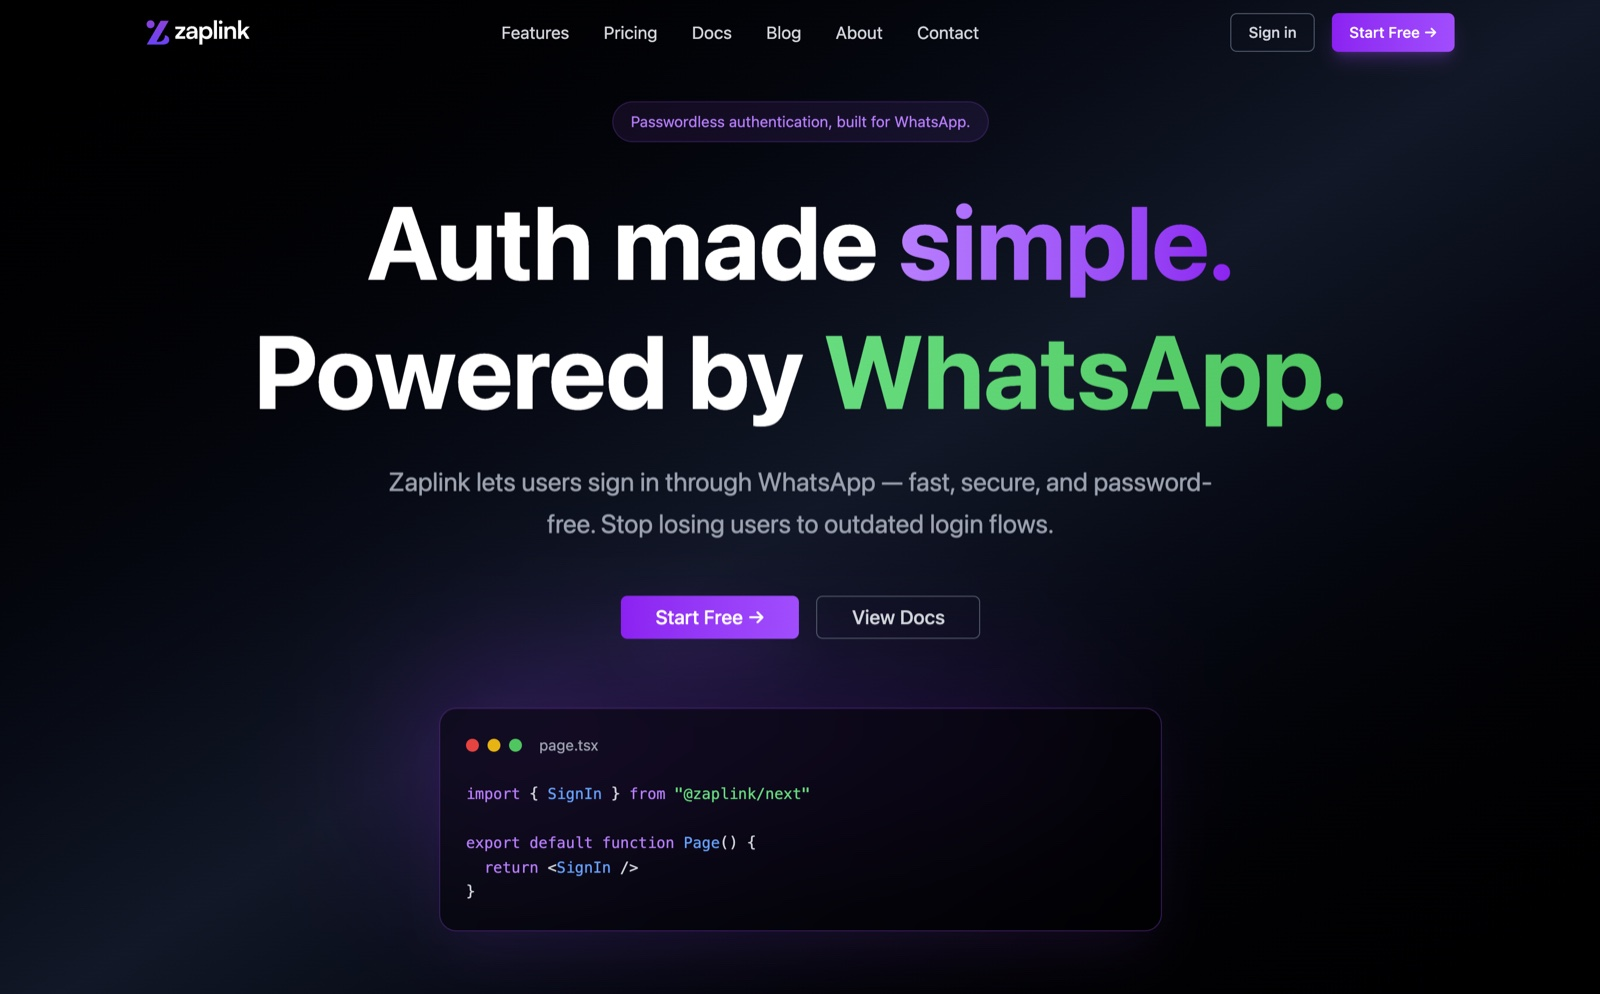
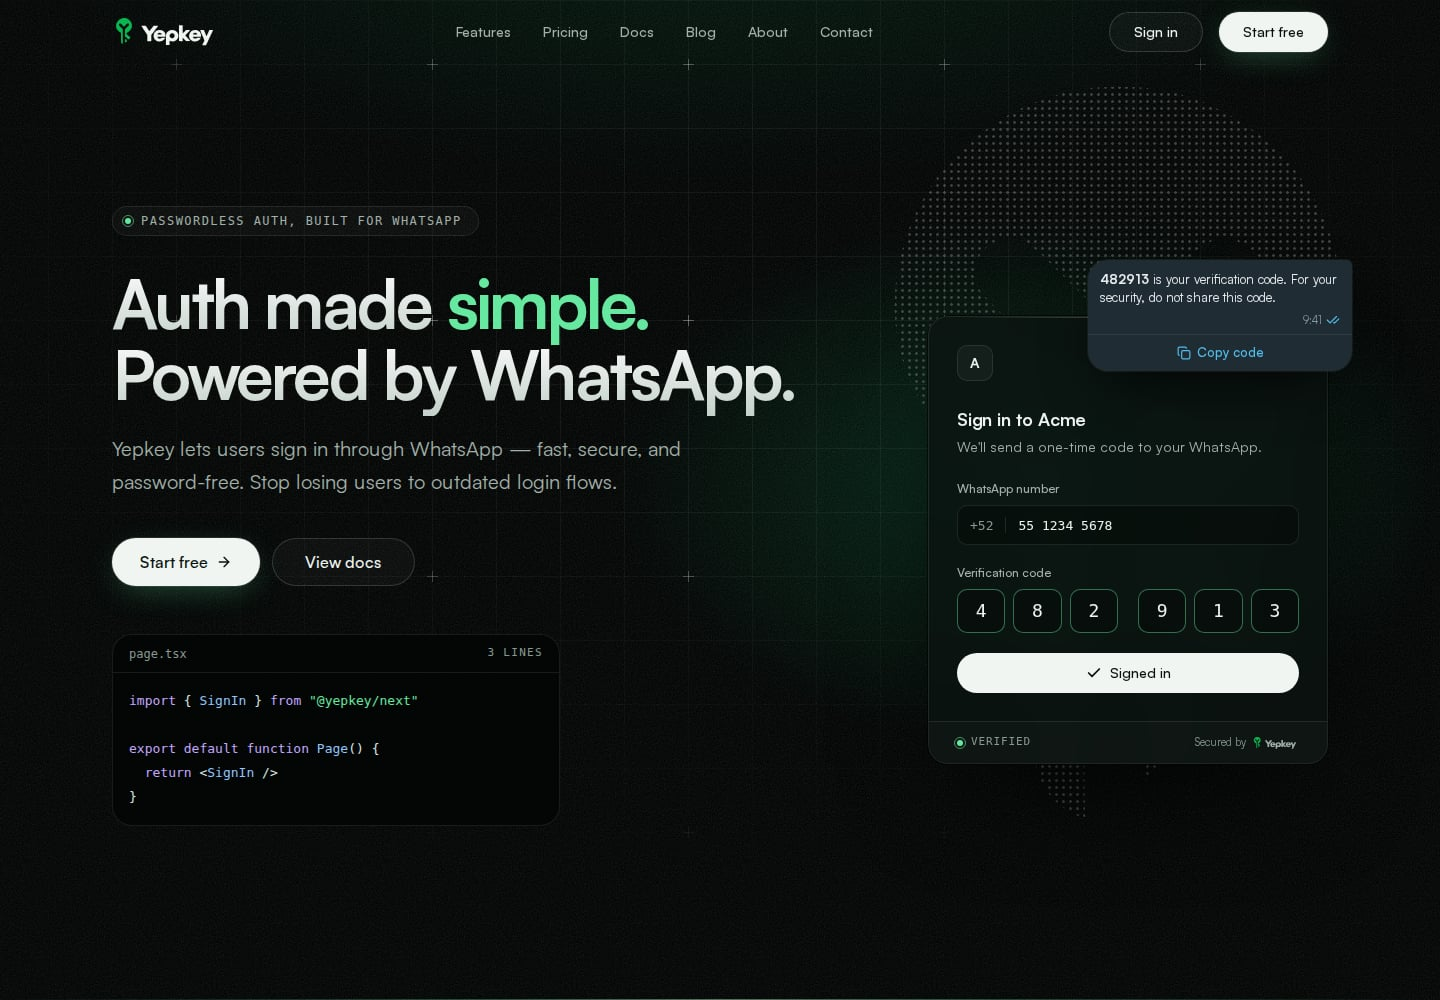
feat: replace Zaplink portfolio with Yepkey

diff --git a/src/data/projects.ts b/src/data/projects.ts
@@ -246,70 +246,63 @@ export const projects: Project[] = [
     related: ['estateflow'],
   },
   {
-    id: 'zaplink',
-    title: { en: 'Zaplink', es: 'Zaplink' },
+    id: 'yepkey',
+    title: { en: 'Yepkey.io', es: 'Yepkey.io' },
     category: { en: 'Product', es: 'Producto' },
     cardDescription: {
-      en: 'Authentication through WhatsApp using one-time codes and magic links.',
-      es: 'Autenticación mediante WhatsApp con códigos de un solo uso y enlaces de acceso.',
+      en: 'Passwordless authentication through WhatsApp using one-time codes.',
+      es: 'Autenticación sin contraseña mediante WhatsApp con códigos de un solo uso.',
     },
     body: {
-      en: 'I built Zaplink to let products use WhatsApp for authentication. It supports one-time codes and magic links, with React and Node integration packages.',
-      es: 'Desarrollé Zaplink para que los productos puedan utilizar WhatsApp en la autenticación de usuarios. Permite usar códigos de un solo uso y enlaces de acceso, con paquetes de integración para React y Node.',
+      en: 'I built Yepkey, a product for adding WhatsApp authentication to applications. Its public site presents a sign-in flow using a one-time code.',
+      es: 'Desarrollé Yepkey, un producto para incorporar autenticación por WhatsApp a una aplicación. Su sitio público presenta un flujo de acceso con un código de un solo uso.',
     },
-    url: 'https://zaplink.so',
-    urlLabel: { en: 'Explore Zaplink', es: 'Conoce Zaplink' },
+    url: 'https://yepkey.io/',
+    urlLabel: { en: 'Visit Yepkey.io', es: 'Conoce Yepkey.io' },
     featured: true,
     draft: false,
     intro: [
       {
-        en: 'Zaplink lets a product authenticate people over WhatsApp instead of email. The user gets a one-time code or a link in the app they already have open, and signs in from there.',
-        es: 'Zaplink permite que un producto autentique a las personas por WhatsApp en lugar de correo. El usuario recibe un código de un solo uso o un enlace en la app que ya tiene abierta, y entra desde ahí.',
+        en: 'Yepkey is a product I built for authentication through WhatsApp. A person receives a one-time code in WhatsApp and uses it to sign in to an application without a password.',
+        es: 'Yepkey es un producto que desarrollé para autenticar usuarios mediante WhatsApp. La persona recibe un código de un solo uso en WhatsApp y lo utiliza para entrar a una aplicación sin contraseña.',
       },
       {
-        en: 'In much of Latin America that is the difference between a login that works and one that quietly fails: the inbox is an afterthought, but WhatsApp is where people actually are.',
-        es: 'En buena parte de Latinoamérica esa es la diferencia entre un inicio de sesión que funciona y uno que falla en silencio: el correo es secundario, pero WhatsApp es donde la gente realmente está.',
+        en: 'These screenshots show the current public Yepkey.io website, including its illustrative sign-in example for the fictional Acme application.',
+        es: 'Estas capturas muestran el sitio público actual de Yepkey.io, incluido su ejemplo ilustrativo de acceso para la aplicación ficticia Acme.',
       },
     ],
     hero: {
-      file: 'zaplink/hero.jpg',
-      alt: { en: 'Zaplink sign-in over WhatsApp', es: 'Inicio de sesión por WhatsApp con Zaplink' },
+      file: 'yepkey/hero.webp',
+      alt: { en: 'Yepkey.io desktop homepage with its WhatsApp sign-in illustration and Next.js code example', es: 'Página de inicio de Yepkey.io en escritorio, con una ilustración de acceso por WhatsApp y un ejemplo de código de Next.js' },
+      caption: { en: 'Public Yepkey.io homepage, captured on 5 November 2026 at 1440 × 1000. The Acme sign-in is an illustration on the site.', es: 'Inicio público de Yepkey.io, capturado el 5 de noviembre de 2026 a 1440 × 1000. El acceso de Acme es una ilustración del sitio.' },
     },
     sections: [
       {
-        title: { en: 'Signing in over WhatsApp', es: 'Iniciar sesión por WhatsApp' },
+        title: { en: 'The sign-in example', es: 'El ejemplo de acceso' },
         body: [
           {
-            en: 'The platform issues one-time codes and magic links, verifies them, and can act as a second factor for products that already have a password. Rate limiting and abuse protection are part of the service rather than something each integrator has to remember.',
-            es: 'La plataforma emite códigos de un solo uso y enlaces de acceso, los verifica y puede funcionar como segundo factor para productos que ya usan contraseña. El control de frecuencia y la protección contra abuso son parte del servicio, no algo que cada integrador tenga que recordar.',
-          },
-          {
-            en: 'Provider callbacks arrive on their own endpoint and the slow work — delivery, retries — runs on a queue, so an authentication request does not wait on a messaging provider to answer.',
-            es: 'Las respuestas del proveedor llegan a su propio endpoint y el trabajo lento —entrega, reintentos— corre en una cola, para que una solicitud de autenticación no se quede esperando a que conteste el proveedor de mensajería.',
-          },
-        ],
-      },
-      {
-        title: { en: 'Packages for the framework you already use', es: 'Paquetes para el framework que ya usas' },
-        body: [
-          {
-            en: 'The point of Zaplink is that adding it should be small. There are packages for Node and the browser, a React client, a React Native client, and a Next.js integration, all built on a shared core, plus example applications that show each one wired up end to end.',
-            es: 'El objetivo de Zaplink es que integrarlo sea poco trabajo. Hay paquetes para Node y el navegador, un cliente de React, uno de React Native y una integración para Next.js, todos sobre un núcleo común, además de aplicaciones de ejemplo que muestran cada uno funcionando de principio a fin.',
-          },
-        ],
-      },
-      {
-        title: { en: 'The console', es: 'La consola' },
-        body: [
-          {
-            en: 'Behind the API there is a console for the people running it: applications and their credentials, the users who have signed in, and an audit trail of what happened.',
-            es: 'Detrás de la API hay una consola para quien la opera: las aplicaciones y sus credenciales, los usuarios que han entrado y una bitácora de lo que ocurrió.',
+            en: 'The public homepage illustrates the flow with a fictional Acme application: a WhatsApp message contains the code shown in the sign-in form. The mobile view keeps the explanation, actions and example in a single column.',
+            es: 'La página pública ilustra el flujo con una aplicación ficticia llamada Acme: un mensaje de WhatsApp contiene el código que aparece en el formulario de acceso. La vista móvil organiza la explicación, las acciones y el ejemplo en una sola columna.',
           },
         ],
         image: {
-          file: 'zaplink/console.png',
-          alt: { en: 'Zaplink console', es: 'Consola de Zaplink' },
+          file: 'yepkey/mobile.webp',
+          alt: { en: 'Yepkey.io mobile homepage with the fictional Acme WhatsApp code example below the product introduction', es: 'Inicio de Yepkey.io en móvil, con el ejemplo ficticio de código de WhatsApp de Acme debajo de la presentación del producto' },
+          caption: { en: 'Public homepage captured at 390 × 844 on 5 November 2026; the image includes the full hero section. The phone number and code belong to the site’s fictional example.', es: 'Inicio público capturado a 390 × 844 el 5 de noviembre de 2026; la imagen incluye la sección principal completa. El teléfono y el código pertenecen al ejemplo ficticio del sitio.' },
         },
+      },
+      {
+        title: { en: 'Implementation and integration', es: 'Implementación e integración' },
+        body: [
+          {
+            en: 'In the implementation I built, the public authentication API, administration API, provider callbacks and background workers are separate applications. The backend uses NestJS, Prisma and PostgreSQL, with Redis and BullMQ for background work and a React console.',
+            es: 'En la implementación que desarrollé, la API pública de autenticación, la API de administración, las respuestas del proveedor y los procesos en segundo plano son aplicaciones separadas. El backend utiliza NestJS, Prisma y PostgreSQL, con Redis y BullMQ para el trabajo en segundo plano y una consola en React.',
+          },
+          {
+            en: 'The current public website includes a Next.js integration example and links to documentation and the console.',
+            es: 'El sitio público actual incluye un ejemplo de integración para Next.js y enlaces a la documentación y a la consola.',
+          },
+        ],
       },
     ],
     stack: ['NestJS', 'Prisma', 'PostgreSQL', 'Redis', 'BullMQ', 'React', 'Vite', 'Nx'],
@@ -530,7 +523,7 @@ export function getProject(id: string): Project {
   return project;
 }
 
-/** Detail-page path for a project, e.g. `/en/projects/zaplink`. */
+/** Detail-page path for a project, e.g. `/en/projects/yepkey`. */
 export function projectHref(projectsRoute: string, id: string): string {
   return `${projectsRoute}/${id}`;
 }

diff --git a/tests/browser/yepkey.spec.ts b/tests/browser/yepkey.spec.ts
@@ -1,0 +1,60 @@
+import { test, expect } from '@playwright/test';
+
+for (const [locale, prefix, otherPrefix] of [['es', '/es/proyectos', '/en/projects'], ['en', '/en/projects', '/es/proyectos']]) {
+  test(`${locale}: Yepkey screenshots, responsive project and legacy redirects`, async ({ page }) => {
+    const errors: string[] = [];
+    page.on('pageerror', error => errors.push(error.message));
+    for (const width of [320, 390, 768, 1440]) {
+      await page.setViewportSize({ width, height: 900 });
+      const response = await page.goto(`${prefix}/yepkey/`);
+      expect(response?.status()).toBe(200);
+      await expect(page.locator('body > main h1').first()).toHaveText('Yepkey.io');
+      await expect(page.locator('a[href="https://yepkey.io/"]')).toBeVisible();
+      await expect(page.locator('link[rel="canonical"]')).toHaveAttribute('href', `https://hecsanchez.com${prefix}/yepkey/`);
+      await expect(page.locator('link[hreflang="' + (locale === 'es' ? 'en' : 'es') + '"]')).toHaveAttribute('href', `https://hecsanchez.com${otherPrefix}/yepkey/`);
+      await expect(page.locator('meta[property="og:image"]')).toHaveAttribute('content', 'https://hecsanchez.com/projects/yepkey/hero.webp');
+      const screenshots = page.locator('main img[src^="/projects/yepkey/"]');
+      await expect(screenshots).toHaveCount(2);
+      for (const image of await screenshots.all()) {
+        await image.scrollIntoViewIfNeeded();
+        await expect(image).toHaveJSProperty('complete', true);
+        expect(await image.evaluate((img: HTMLImageElement) => img.naturalWidth)).toBeGreaterThan(0);
+        expect(await image.getAttribute('alt')).toContain('Yepkey.io');
+        expect(Number(await image.getAttribute('width'))).toBeGreaterThan(0);
+        expect(Number(await image.getAttribute('height'))).toBeGreaterThan(0);
+      }
+      expect(await page.evaluate(() => document.documentElement.scrollWidth <= innerWidth)).toBe(true);
+      await page.evaluate(() => scrollTo(0, 0));
+      await page.addStyleTag({ content: 'astro-dev-toolbar { display: none !important; }' });
+      await page.screenshot({ path: `.context/yepkey-review/${locale}-${width}.png`, fullPage: true });
+    }
+    for (const suffix of ['', '/']) {
+      const response = await page.goto(`${prefix}/zaplink${suffix}`);
+      expect(response?.status()).toBe(200);
+      const redirect = response?.request().redirectedFrom();
+      expect(await redirect?.response().then(result => result?.status())).toBe(301);
+      await expect(page).toHaveURL(new RegExp(`${prefix}/yepkey/?$`));
+      await expect(page.locator('body > main h1').first()).toHaveText('Yepkey.io');
+    }
+    await page.goto(`${prefix}/#zaplink`);
+    await expect(page.locator('#yepkey #zaplink')).toHaveCount(1);
+    await expect(page.locator('#yepkey a').filter({ hasText: 'Yepkey.io' })).toHaveAttribute('href', `${prefix}/yepkey`);
+    expect(errors).toEqual([]);
+  });
+}
+
+test('current portfolio entries use Yepkey while dated posts explain the former name', async ({ page }) => {
+  for (const [locale, projectPath, articlePath] of [
+    ['es', '/es/proyectos/yepkey', '/es/escritos/un-producto-que-funciona-es-una-forma-muy-convincente-de-evitar-vender/'],
+    ['en', '/en/projects/yepkey', '/en/writing/a-working-product-is-a-very-convincing-way-to-avoid-selling/'],
+  ]) {
+    await page.goto(`/${locale}/`);
+    const card = page.locator(`a[href="${projectPath}"]`);
+    await expect(card).toHaveCount(1);
+    await expect(card.locator('h3')).toHaveText('Yepkey.io');
+    await expect(card.locator('img')).toHaveAttribute('src', '/projects/yepkey/hero.webp');
+    await page.goto(articlePath);
+    await expect(page.locator(`main a[href="${projectPath}"]`).first()).toHaveText(locale === 'es' ? 'Yepkey (entonces llamado Zaplink)' : 'Yepkey (then called Zaplink)');
+    await expect(page.locator('main a[href$="/zaplink"]')).toHaveCount(0);
+  }
+});

diff --git a/tests/production.test.ts b/tests/production.test.ts
@@ -35,3 +35,23 @@ test('sitemap excludes resource success, draft and unselected offers', () => {
   assert.ok(sitemap.includes('https://hecsanchez.com/es/'));
   assert.ok(sitemap.includes('https://hecsanchez.com/en/'));
 });
+
+test('Yepkey replaces current portfolio routes and preserves permanent Zaplink redirects', () => {
+  for (const prefix of ['es/proyectos', 'en/projects']) {
+    const page = readFileSync(`dist/${prefix}/yepkey/index.html`, 'utf8');
+    assert.ok(page.includes('Yepkey.io'));
+    assert.ok(page.includes('/projects/yepkey/hero.webp'));
+    assert.ok(page.includes('/projects/yepkey/mobile.webp'));
+    assert.ok(page.includes(`https://hecsanchez.com/${prefix}/yepkey/`));
+    const redirect = readFileSync(`dist/${prefix}/zaplink/index.html`, 'utf8');
+    assert.ok(redirect.includes('http-equiv="refresh"'));
+    assert.ok(redirect.includes(`/${prefix}/yepkey`));
+  }
+  const sitemap = readFileSync('dist/sitemap-0.xml', 'utf8');
+  assert.ok(sitemap.includes('/es/proyectos/yepkey/'));
+  assert.ok(sitemap.includes('/en/projects/yepkey/'));
+  assert.equal(sitemap.includes('/zaplink'), false);
+  const deployment = JSON.parse(readFileSync('vercel.json', 'utf8'));
+  assert.equal(deployment.redirects.length, 2);
+  assert.ok(deployment.redirects.every((redirect: { permanent: boolean }) => redirect.permanent));
+});

diff --git a/astro.config.ts b/astro.config.ts
@@ -44,12 +44,16 @@ const draftUrls = getDraftUrls();
 export default defineConfig({
   site: SITE,
   output: 'static',
+  redirects: {
+    '/es/proyectos/zaplink': { status: 301, destination: '/es/proyectos/yepkey/' },
+    '/en/projects/zaplink': { status: 301, destination: '/en/projects/yepkey/' },
+  },
   integrations: [
     mdx(),
     sitemap({
       // Language alternates are declared per page in BaseLayout, where the real
       // EN/ES pairs are known. Keep drafts and the redirecting root out.
-      filter: (page) => page !== `${SITE}/` && !draftUrls.has(page) && aiSitemapEligible(new URL(page).pathname),
+      filter: (page) => page !== `${SITE}/` && !draftUrls.has(page) && aiSitemapEligible(new URL(page).pathname) && !/\/(?:projects|proyectos)\/zaplink\/?$/.test(new URL(page).pathname),
     }),
     icon({ include: { hugeicons: ['*'] } }),
   ],

diff --git a/yepkey-portfolio.md b/yepkey-portfolio.md
@@ -1,0 +1,43 @@
+# Yepkey.io portfolio update
+
+Requested by Hec: replace the current Zaplink portfolio presence with Yepkey.io and use real screenshots. Implemented on top of `c33e1e7985995d0edfa417936a89f206c069feda`; the AI journey remains draft and unchanged. No deployment or push is authorized.
+
+## Evidence and editorial decisions
+
+- `https://yepkey.io/` returned 200 on 5 November 2026. Its current heading is “Auth made simple. Powered by WhatsApp.” It presents passwordless WhatsApp sign-in using a one-time code, a Next.js example, documentation and public console links.
+- `/home/hecsanchez/ventures/zaplink/web/src/components/HeroSection.tsx` matches the live Yepkey page. `AuthPreview.tsx` confirms Acme, its phone number, code and signed-in state are hard-coded illustrative content. Screenshots are explicitly captioned as the public site and its fictional example. They do not establish a real authentication result or customer outcome.
+- The existing portfolio entry and Hec's dated articles already say he built this product and its earlier integrations. The owner explicitly requested the current-name replacement. The local core README, application directories and package manifest substantiate the historical NestJS/Prisma/PostgreSQL/Redis/BullMQ/React/Vite/Nx implementation. The page frames that architecture as the implementation he built, rather than claiming a newly verified production deployment.
+- Current homepage/project/service/about/meta labels use Yepkey.io/Yepkey. Dated articles introduce “Yepkey (then called Zaplink)” / “Yepkey (entonces llamado Zaplink)” at the first mention and use Yepkey for subsequent references, with current destination links. The explicit former-name note preserves the historical context and the original dates remain intact.
+- No new conversion, adoption, performance, security guarantee, customer relationship, price or SDK availability claim was added. In particular, the live Next.js example is described as an example on the site; package publication and actual authentication are not asserted as verified.
+
+## Screenshots and processing
+
+Source URL for both selected captures: **https://yepkey.io/**, no query strings, no login, no form submission. Chromium/Playwright, device scale factor 1 and reduced motion enabled to settle the site's illustrative animation. The hero section was captured directly, including its existing navigation. No private console, customer data, browser chrome, cookie banner, composite or invented screen is included. Incidental Google Analytics requests were blocked during capture.
+
+| Asset | Source viewport | Capture time (UTC) | Actual output | Processing |
+| --- | --- | --- | --- | --- |
+| `public/projects/yepkey/hero.webp` | 1440 × 1000 CSS px | 2026-11-05T16:22:47.881Z | 1440 × 1000; 111,106 bytes | Public homepage hero-only PNG capture → WebP quality 82, effort 6; no added/changed UI. |
+| `public/projects/yepkey/mobile.webp` | 390 × 844 CSS px | 2026-11-05T16:22:49.337Z | 390 × 1488; 49,688 bytes | Full mobile hero section (extends below viewport) → WebP quality 82, effort 6; no added/changed UI. |
+
+Raw captures and machine-readable source metadata are gitignored in `.context/yepkey-source/`, with the capture script at `.context/yepkey-capture.mjs`. The selected raw inputs are `desktop-hero.png` and `mobile-hero.png`; other viewport/illustration captures are review-only. The existing `ProjectFigure`/`ProjectCard` dimension reader resolves these WebP files, reserves their intrinsic space, loads lower images lazily and caps portrait height. Both locales have accurate alt text and dated captions. The hero also supplies card previews and the project social image. Legacy `public/projects/zaplink/hero.jpg` has been replaced with the same current desktop capture (JPEG quality 85) so the old image URL also serves Yepkey branding. It has no current page references.
+
+## Routes and files
+
+- Current: `/es/proyectos/yepkey/`, `/en/projects/yepkey/`, shared project ID `yepkey` and external URL `https://yepkey.io/`.
+- Legacy: `/es/proyectos/zaplink` and `/en/projects/zaplink`, including slash requests, permanently redirect to the corresponding current route. Astro supplies 301s in development and redirect HTML for static hosts; Vercel `permanent: true` configures real 308s for any separately authorized deployment. Only the current routes enter the sitemap. Old project-index `#zaplink` fragments remain valid invisible aliases.
+- Main edits: `src/data/projects.ts`, ES/EN dictionaries, six dated blog posts, project route social alternatives, project-index anchor alias, Astro/Vercel redirects, `public/projects/README.md` and the two selected assets.
+- Focused checks: browser project/image/redirect tests in `tests/browser/yepkey.spec.ts`; production artifact and redirect checks extend `tests/production.test.ts`.
+
+## Verification
+
+- `npm test`: 10/10 Node tests passed.
+- `npm run check`: Astro reported 0 errors and 0 warnings (13 existing hints); TypeScript passed.
+- `npm run test:browser`: 11/11 browser tests passed, including the existing AI draft checks. Both project locales were reviewed at 320, 390, 768 and 1440 CSS pixels, with loaded images, no horizontal overflow, correct metadata, historical links and permanent legacy redirects.
+- `npm run test:build`: production build succeeded and 4/4 production artifact tests passed, including image output, canonical URLs, sitemap exclusions and redirect configuration.
+- `git diff --check`: passed.
+
+Final portfolio review screenshots are gitignored at `.context/yepkey-review/es-{320,390,768,1440}.png` and `.context/yepkey-review/en-{320,390,768,1440}.png`. Desktop and mobile captures were visually inspected.
+
+A case-insensitive scan of all tracked text leaves the former name only in the six dated articles' explicit historical notes (including two descriptions), invisible route/fragment compatibility identifiers, their tests, and migration/source documentation. A second scan of 53 generated HTML/XML files, including feeds and embedded metadata, classified all occurrences as historical notes (18) or compatibility references (12), with no unclassified occurrences. The legacy image filename remains compatible and its pixels now show Yepkey.
+
+Local review: `npm run dev`, then the current ES/EN project routes. No external preview, account operation, deployment, DNS change, secret use or live authentication test is part of this change. A successful screenshot capture verifies the public presentation only.

diff --git a/public/projects/README.md b/public/projects/README.md
@@ -22,8 +22,8 @@ section's `image`). Current slots:
 | `the-woods-crm/inbox.png` | The Woods — shared WhatsApp inbox section |
 | `the-woods-crm/proposal.png` | The Woods — proposal builder section |
 | `the-woods-crm/inventory.png` | The Woods — inventory and purchasing section |
-| `zaplink/hero.jpg` | Zaplink — full width, below the intro |
-| `zaplink/console.png` | Zaplink — console section |
+| `yepkey/hero.webp` | Yepkey.io — desktop public homepage, also used on cards |
+| `yepkey/mobile.webp` | Yepkey.io — mobile public homepage and illustrative sign-in |
 
 PNG, JPEG, WebP and GIF all work. Intrinsic dimensions are read from the file
 header at build time and written into the `<img>` tag, so images reserve their
@@ -33,3 +33,6 @@ rather than stretching across the column.
 **These pages are public.** Check each screenshot for client names, contact
 details, real deal values, and anything else that shouldn't leave the customer's
 account before committing it.
+
+The Yepkey captures show the public site, not a private console or a live login.
+See [capture provenance and verification](../../yepkey-portfolio.md).
